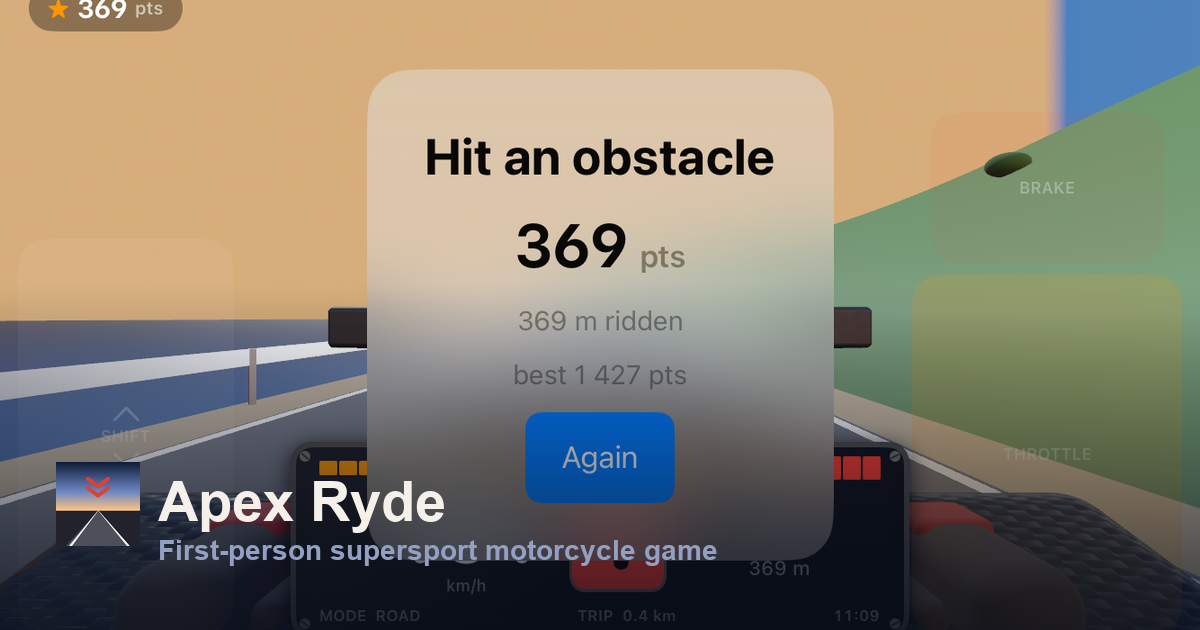
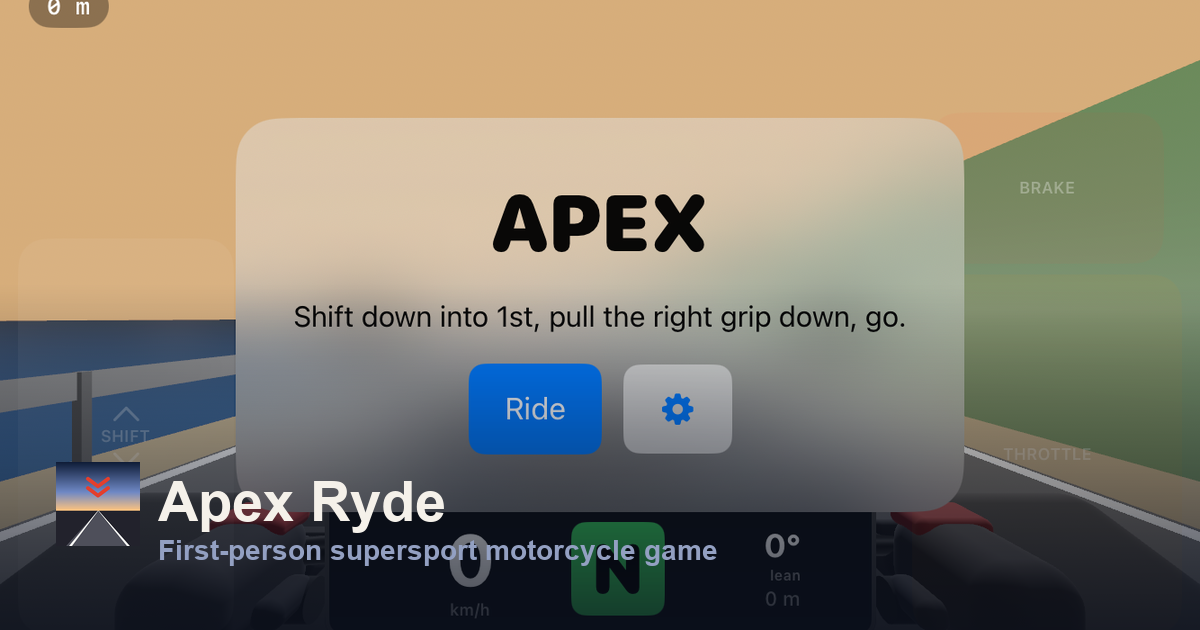
Address final review: fix crash-screen hero/OG image, tighten CSP and URLs
Review found riding.png (used for hero, OG card, and gallery) is actually a
post-crash score screen ("Hit an obstacle"), not clean gameplay - the wrong
first impression on the two highest-impact surfaces. Swap hero + OG source
to menu.png (the clean "APEX / Ride" screen), fix the now-mismatched hero
alt text, and correct the gallery caption for the riding.png crash-summary
shot in all three languages so it no longer contradicts its own alt text.

Also: align canonical/og:url/JSON-LD url and sitemap.xml with the clean
/support and /privacy paths actually linked in nav/footer, add missing
twitter:image:alt, drop 'unsafe-inline' from the CSP (verified no inline
style attributes or script blocks depend on it - JSON-LD data blocks aren't
governed by script-src), add role="group" to the language switcher, and
remove aria-disabled from the non-interactive "coming soon" badge spans
(inert on non-widget elements).

diff --git a/index.html b/index.html
@@ -21,6 +21,7 @@
     <meta name="twitter:title" content="Apex Ryde | First-Person Motorcycle Game for iPhone & iPad">
     <meta name="twitter:description" content="Real friction-circle physics, a sequential gearbox, tilt steering, and endless procedural coastal roads.">
     <meta name="twitter:image" content="https://apex-ryde-ios.netlify.app/assets/og-image.png">
+    <meta name="twitter:image:alt" content="Apex Ryde — first-person motorcycle game">
     <link rel="icon" href="assets/icon.png">
     <link rel="apple-touch-icon" href="assets/icon.png">
     <link rel="stylesheet" href="styles.css">
@@ -54,7 +55,7 @@
         <a href="#features" data-i18n="nav.features">Features</a>
         <a data-i18n="nav.support" href="/support">Support</a>
         <a data-i18n="nav.privacy" href="/privacy">Privacy</a>
-        <div class="language-switch" aria-label="Language">
+        <div class="language-switch" role="group" aria-label="Language">
           <button type="button" data-lang="en">EN</button>
           <button type="button" data-lang="sk">SK</button>
           <button type="button" data-lang="cs">CS</button>
@@ -69,12 +70,12 @@
           <h1 data-i18n="hero.title">Apex Ryde</h1>
           <p class="hero-text" data-i18n="hero.text">A first-person supersport motorcycle game. Real friction-circle physics, a proper sequential gearbox, and an endless golden-hour coastal road that never rides the same way twice.</p>
           <div class="hero-actions">
-            <span class="button badge pending" data-i18n="hero.cta" aria-disabled="true">Coming to the App Store</span>
+            <span class="button badge pending" data-i18n="hero.cta">Coming to the App Store</span>
             <a class="button secondary" data-i18n="hero.support" href="/support">Get support</a>
           </div>
         </div>
         <figure class="device-frame">
-          <img src="assets/screenshots/riding.png" alt="First-person cockpit view of Apex Ryde: TFT dash, clip-on handlebars, and a twisty golden-hour coastal road ahead." width="1334" height="750" loading="eager">
+          <img src="assets/screenshots/menu.png" alt="Apex Ryde main menu over the cockpit: the APEX wordmark, a Ride button, and a shift-into-first tutorial hint, framed by a golden-hour coastal road." width="1334" height="750" loading="eager">
         </figure>
       </section>
 
@@ -164,7 +165,7 @@
         <div>
           <h2 data-i18n="download.title">Coming to the App Store.</h2>
           <p data-i18n="download.text">Apex Ryde is in final testing for iPhone and iPad. Get support or check back soon.</p>
-          <span class="button badge pending inline-button" data-i18n="download.button" aria-disabled="true">Coming soon</span>
+          <span class="button badge pending inline-button" data-i18n="download.button">Coming soon</span>
         </div>
       </section>
     </main>

diff --git a/privacy.html b/privacy.html
@@ -7,12 +7,12 @@
     <meta name="description" content="Read the Apex Ryde privacy policy covering local run history, Game Center data sharing, on-device motion processing, and support email data.">
     <meta name="robots" content="index, follow">
     <meta name="theme-color" content="#0a0f1c">
-    <link rel="canonical" href="https://apex-ryde-ios.netlify.app/privacy.html">
+    <link rel="canonical" href="https://apex-ryde-ios.netlify.app/privacy">
     <meta property="og:site_name" content="Apex Ryde">
     <meta property="og:title" content="Apex Ryde Privacy Policy">
     <meta property="og:description" content="Privacy policy for local run history, Game Center data sharing, on-device motion processing, and support email data.">
     <meta property="og:type" content="website">
-    <meta property="og:url" content="https://apex-ryde-ios.netlify.app/privacy.html">
+    <meta property="og:url" content="https://apex-ryde-ios.netlify.app/privacy">
     <meta property="og:image" content="https://apex-ryde-ios.netlify.app/assets/og-image.png">
     <meta property="og:image:width" content="1200">
     <meta property="og:image:height" content="630">
@@ -21,6 +21,7 @@
     <meta name="twitter:title" content="Apex Ryde Privacy Policy">
     <meta name="twitter:description" content="Privacy policy for local run history, Game Center data sharing, on-device motion processing, and support email data.">
     <meta name="twitter:image" content="https://apex-ryde-ios.netlify.app/assets/og-image.png">
+    <meta name="twitter:image:alt" content="Apex Ryde — first-person motorcycle game">
     <link rel="icon" href="assets/icon.png">
     <link rel="apple-touch-icon" href="assets/icon.png">
     <link rel="stylesheet" href="styles.css">
@@ -30,7 +31,7 @@
         "@type": "WebPage",
         "name": "Apex Ryde Privacy Policy",
         "description": "Privacy policy for the Apex Ryde iPhone and iPad game.",
-        "url": "https://apex-ryde-ios.netlify.app/privacy.html",
+        "url": "https://apex-ryde-ios.netlify.app/privacy",
         "isPartOf": { "@type": "WebSite", "name": "Apex Ryde", "url": "https://apex-ryde-ios.netlify.app/" }
       }
     </script>
@@ -45,7 +46,7 @@
         <a data-i18n="nav.features" href="/#features">Features</a>
         <a data-i18n="nav.support" href="/support">Support</a>
         <a data-i18n="nav.privacy" href="/privacy">Privacy</a>
-        <div class="language-switch" aria-label="Language">
+        <div class="language-switch" role="group" aria-label="Language">
           <button type="button" data-lang="en">EN</button>
           <button type="button" data-lang="sk">SK</button>
           <button type="button" data-lang="cs">CS</button>

diff --git a/support.html b/support.html
@@ -7,12 +7,12 @@
     <meta name="description" content="Get support for Apex Ryde on iPhone and iPad, including Game Center, controls, run history, and offline play.">
     <meta name="robots" content="index, follow">
     <meta name="theme-color" content="#0a0f1c">
-    <link rel="canonical" href="https://apex-ryde-ios.netlify.app/support.html">
+    <link rel="canonical" href="https://apex-ryde-ios.netlify.app/support">
     <meta property="og:site_name" content="Apex Ryde">
     <meta property="og:title" content="Apex Ryde Support">
     <meta property="og:description" content="Support for Game Center, controls, run history, and offline play.">
     <meta property="og:type" content="website">
-    <meta property="og:url" content="https://apex-ryde-ios.netlify.app/support.html">
+    <meta property="og:url" content="https://apex-ryde-ios.netlify.app/support">
     <meta property="og:image" content="https://apex-ryde-ios.netlify.app/assets/og-image.png">
     <meta property="og:image:width" content="1200">
     <meta property="og:image:height" content="630">
@@ -21,6 +21,7 @@
     <meta name="twitter:title" content="Apex Ryde Support">
     <meta name="twitter:description" content="Support for Game Center, controls, run history, and offline play.">
     <meta name="twitter:image" content="https://apex-ryde-ios.netlify.app/assets/og-image.png">
+    <meta name="twitter:image:alt" content="Apex Ryde — first-person motorcycle game">
     <link rel="icon" href="assets/icon.png">
     <link rel="apple-touch-icon" href="assets/icon.png">
     <link rel="stylesheet" href="styles.css">
@@ -63,7 +64,7 @@
         <a data-i18n="nav.features" href="/#features">Features</a>
         <a data-i18n="nav.support" href="/support">Support</a>
         <a data-i18n="nav.privacy" href="/privacy">Privacy</a>
-        <div class="language-switch" aria-label="Language">
+        <div class="language-switch" role="group" aria-label="Language">
           <button type="button" data-lang="en">EN</button>
           <button type="button" data-lang="sk">SK</button>
           <button type="button" data-lang="cs">CS</button>

diff --git a/script.js b/script.js
@@ -25,7 +25,7 @@ const translations = {
     "gallery.eyebrow": "In the cockpit",
     "gallery.title": "See it in action.",
     "gallery.menu.caption": "Main menu — shift into first and go.",
-    "gallery.riding.caption": "TFT dash, clip-ons, and the road ahead.",
+    "gallery.riding.caption": "Crash, then the numbers: distance ridden and your personal best.",
     "gallery.tutorial.caption": "Learn the shifter before you ride for real.",
     "skill.eyebrow": "The skill ceiling",
     "skill.title": "Any of these ends the run.",
@@ -115,7 +115,7 @@ const translations = {
     "gallery.eyebrow": "V kokpite",
     "gallery.title": "Pozri si to v akcii.",
     "gallery.menu.caption": "Hlavné menu — zaraď jednotku a choď.",
-    "gallery.riding.caption": "TFT palubovka, plocháče a cesta pred tebou.",
+    "gallery.riding.caption": "Pád, potom čísla: prejdená vzdialenosť a tvoj osobný rekord.",
     "gallery.tutorial.caption": "Nauč sa radenie skôr, než vyrazíš naostro.",
     "skill.eyebrow": "Strop zručnosti",
     "skill.title": "Ktorákoľvek z týchto vecí ukončí jazdu.",
@@ -205,7 +205,7 @@ const translations = {
     "gallery.eyebrow": "V kokpitu",
     "gallery.title": "Podívej se na to v akci.",
     "gallery.menu.caption": "Hlavní menu — zařaď jedničku a jeď.",
-    "gallery.riding.caption": "TFT paluba, plocháče a cesta před tebou.",
+    "gallery.riding.caption": "Pád, pak čísla: ujetá vzdálenost a tvůj osobní rekord.",
     "gallery.tutorial.caption": "Nauč se řazení, než vyrazíš naostro.",
     "skill.eyebrow": "Strop dovednosti",
     "skill.title": "Kterákoli z těchto věcí ukončí jízdu.",

diff --git a/scripts/generate-assets.py b/scripts/generate-assets.py
@@ -56,19 +56,22 @@ def copy_icon() -> None:
 
 
 def generate_og_image() -> None:
-    riding = Image.open(SCREENSHOTS / "riding.png").convert("RGB")
+    # menu.png (the clean "APEX / Ride" screen), not riding.png — riding.png
+    # is actually a post-crash score summary ("Hit an obstacle"), the wrong
+    # first impression for a social share card.
+    source = Image.open(SCREENSHOTS / "menu.png").convert("RGB")
     target_w, target_h = 1200, 630
     target_ratio = target_w / target_h
-    src_ratio = riding.width / riding.height
+    src_ratio = source.width / source.height
     if src_ratio > target_ratio:
-        new_height = riding.height
+        new_height = source.height
         new_width = int(new_height * target_ratio)
     else:
-        new_width = riding.width
+        new_width = source.width
         new_height = int(new_width / target_ratio)
-    left = (riding.width - new_width) // 2
-    top = (riding.height - new_height) // 2
-    cropped = riding.crop((left, top, left + new_width, top + new_height))
+    left = (source.width - new_width) // 2
+    top = (source.height - new_height) // 2
+    cropped = source.crop((left, top, left + new_width, top + new_height))
     card = cropped.resize((target_w, target_h), Image.LANCZOS).convert("RGBA")
 
     # Bottom gradient scrim so the wordmark/tagline stay legible.
